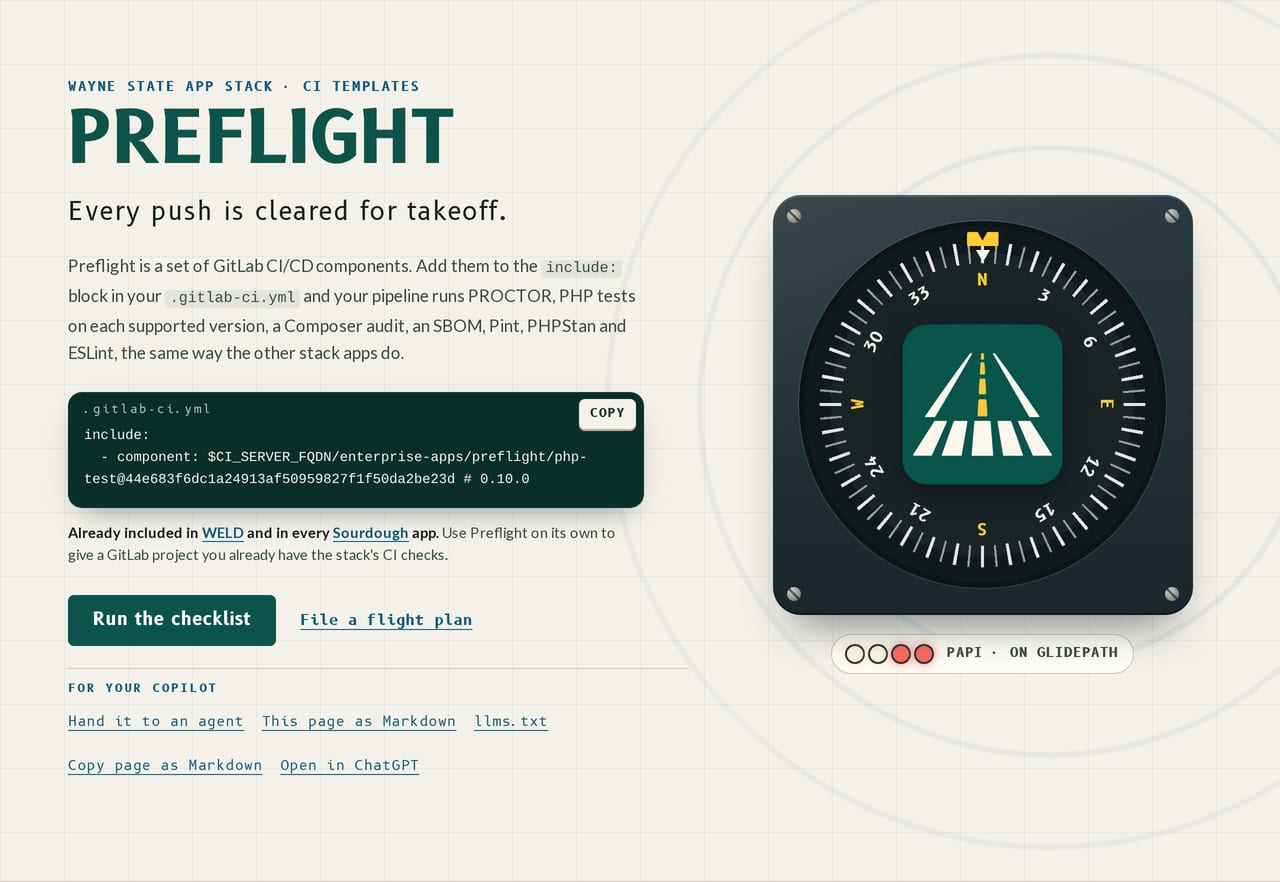
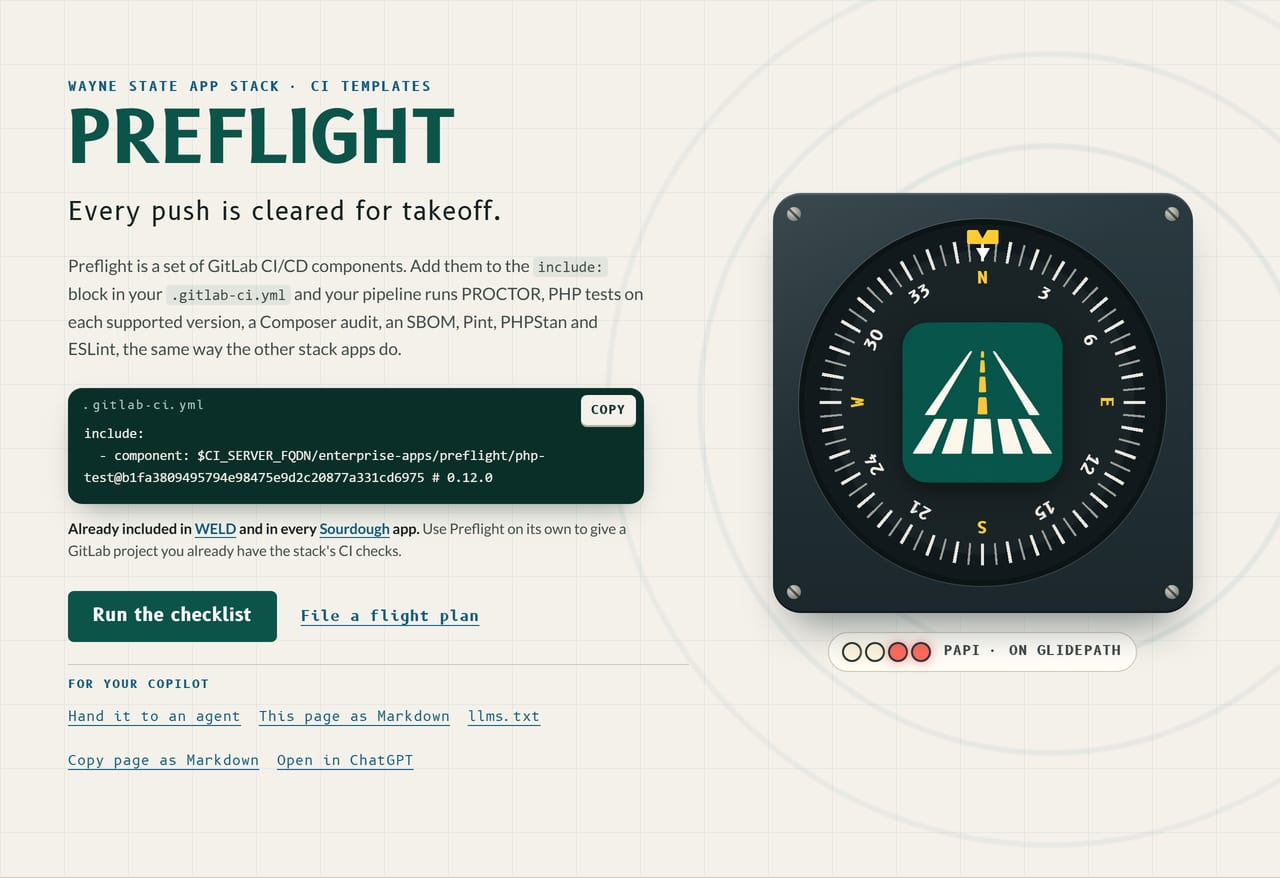
Drift fix 1122: DRC-preflight-6..7 (COMPONENT_TAG 0.12.0 + art regen, components alt 17/0.12.0)

diff --git a/site/docs/reference/components.html b/site/docs/reference/components.html
@@ -43,7 +43,7 @@
       <article class="docs-article"><h1 id="components"><span class="docs-heading-tail"><span>Components</span><a class="docs-heading-link" aria-label="Link to this section" href="#components">#</a></span></h1>
 <p>Every GitLab CI component Preflight ships, with its include example, its inputs and their defaults, and the jobs and timeouts each template defines. Add one include to your app's <code>.gitlab-ci.yml</code>, then follow the per-component guide for setup. Like a real pre-flight check, the point is to find the fault on the ground, where it is cheap to fix.</p>
 <aside class="docs-callout docs-callout--note" role="note"><p class="docs-callout__label">Note</p><p>Components are GA on the Free tier since GitLab 17.0. They work only within the same GitLab instance that hosts this project.</p></aside>
-<p><img src="../readme/checklist.svg" alt="Preflight's before-takeoff checklist card. 1 PROCTOR, checked; 2 PHP tests, 8.3, 8.4 and 8.5 pass; 3 Composer audit, no advisories; 4 SBOM, validated; 5 Pint, clean; 6 PHPStan, no errors; 7 ESLint and Prettier, clean; 8 a11y with axe-core, no violations; 9 clearance, cleared for takeoff. Beside it the annunciator panel lights a green lamp per check, the contract lamp and the clearance, with freshness marked coming soon, and lists all sixteen components in two columns, every one in the 0.10.0 tag." /></p>
+<p><img src="../readme/checklist.svg" alt="Preflight's before-takeoff checklist card. 1 PROCTOR, checked; 2 PHP tests, 8.3, 8.4 and 8.5 pass; 3 Composer audit, no advisories; 4 SBOM, validated; 5 Pint, clean; 6 PHPStan, no errors; 7 ESLint and Prettier, clean; 8 a11y with axe-core, no violations; 9 clearance, cleared for takeoff. Beside it the annunciator panel lights a green lamp per check, the contract lamp and the clearance, with freshness marked coming soon, and lists all seventeen components in two columns, every one in the 0.12.0 tag." /></p>
 <p>The checklist, item by item, with each item's job and timeout read from <code>templates/</code>:</p>
 <div class="docs-table" role="region" aria-label="Table" tabindex="0"><table>
 <thead>

diff --git a/docs/reference/components.md b/docs/reference/components.md
@@ -10,7 +10,7 @@ Every GitLab CI component Preflight ships, with its include example, its inputs 
 > [!NOTE]
 > Components are GA on the Free tier since GitLab 17.0. They work only within the same GitLab instance that hosts this project.
 
-![Preflight's before-takeoff checklist card. 1 PROCTOR, checked; 2 PHP tests, 8.3, 8.4 and 8.5 pass; 3 Composer audit, no advisories; 4 SBOM, validated; 5 Pint, clean; 6 PHPStan, no errors; 7 ESLint and Prettier, clean; 8 a11y with axe-core, no violations; 9 clearance, cleared for takeoff. Beside it the annunciator panel lights a green lamp per check, the contract lamp and the clearance, with freshness marked coming soon, and lists all sixteen components in two columns, every one in the 0.10.0 tag.](../readme/checklist.svg)
+![Preflight's before-takeoff checklist card. 1 PROCTOR, checked; 2 PHP tests, 8.3, 8.4 and 8.5 pass; 3 Composer audit, no advisories; 4 SBOM, validated; 5 Pint, clean; 6 PHPStan, no errors; 7 ESLint and Prettier, clean; 8 a11y with axe-core, no violations; 9 clearance, cleared for takeoff. Beside it the annunciator panel lights a green lamp per check, the contract lamp and the clearance, with freshness marked coming soon, and lists all seventeen components in two columns, every one in the 0.12.0 tag.](../readme/checklist.svg)
 
 The checklist, item by item, with each item's job and timeout read from `templates/`:
 

diff --git a/site/docs/reference/components.md b/site/docs/reference/components.md
@@ -14,7 +14,7 @@ Note
 
 Components are GA on the Free tier since GitLab 17.0. They work only within the same GitLab instance that hosts this project.
 
-![Preflight's before-takeoff checklist card. 1 PROCTOR, checked; 2 PHP tests, 8.3, 8.4 and 8.5 pass; 3 Composer audit, no advisories; 4 SBOM, validated; 5 Pint, clean; 6 PHPStan, no errors; 7 ESLint and Prettier, clean; 8 a11y with axe-core, no violations; 9 clearance, cleared for takeoff. Beside it the annunciator panel lights a green lamp per check, the contract lamp and the clearance, with freshness marked coming soon, and lists all sixteen components in two columns, every one in the 0.10.0 tag.](https://preflight.apps.wayne.edu/docs/readme/checklist.svg)
+![Preflight's before-takeoff checklist card. 1 PROCTOR, checked; 2 PHP tests, 8.3, 8.4 and 8.5 pass; 3 Composer audit, no advisories; 4 SBOM, validated; 5 Pint, clean; 6 PHPStan, no errors; 7 ESLint and Prettier, clean; 8 a11y with axe-core, no violations; 9 clearance, cleared for takeoff. Beside it the annunciator panel lights a green lamp per check, the contract lamp and the clearance, with freshness marked coming soon, and lists all seventeen components in two columns, every one in the 0.12.0 tag.](https://preflight.apps.wayne.edu/docs/readme/checklist.svg)
 
 The checklist, item by item, with each item's job and timeout read from `templates/`:
 

diff --git a/README.md b/README.md
@@ -7,7 +7,7 @@
 <div align="center">
   <img src="docs/readme/badges/php.svg" alt="php ^8.3">
   <img src="docs/readme/badges/license.svg" alt="license MIT">
-  <img src="docs/readme/badges/components.svg" alt="gitlab ci components: 16">
+  <img src="docs/readme/badges/components.svg" alt="gitlab ci components: 17">
 </div>
 
 **Every push is cleared for takeoff.**
